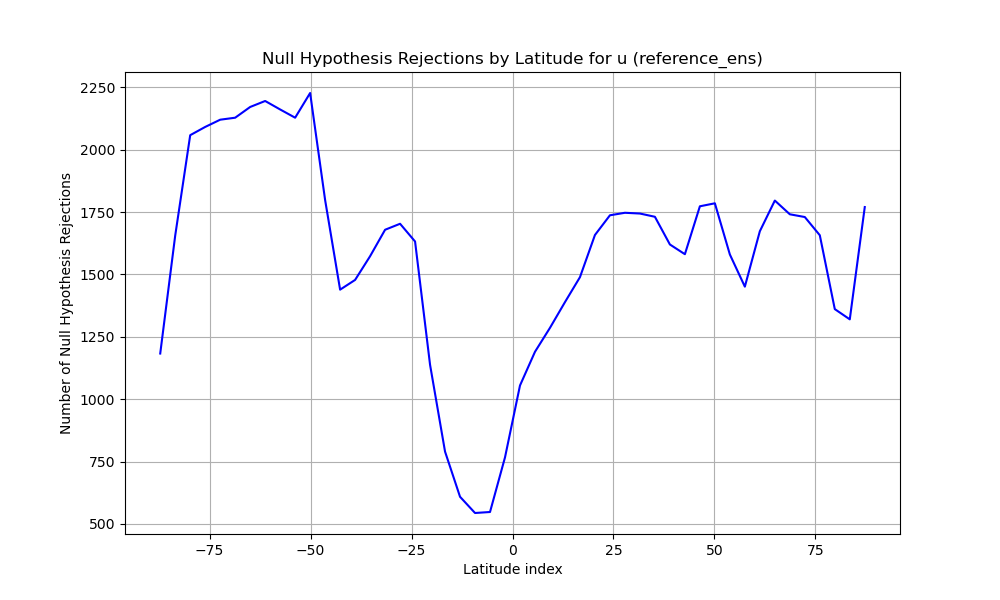
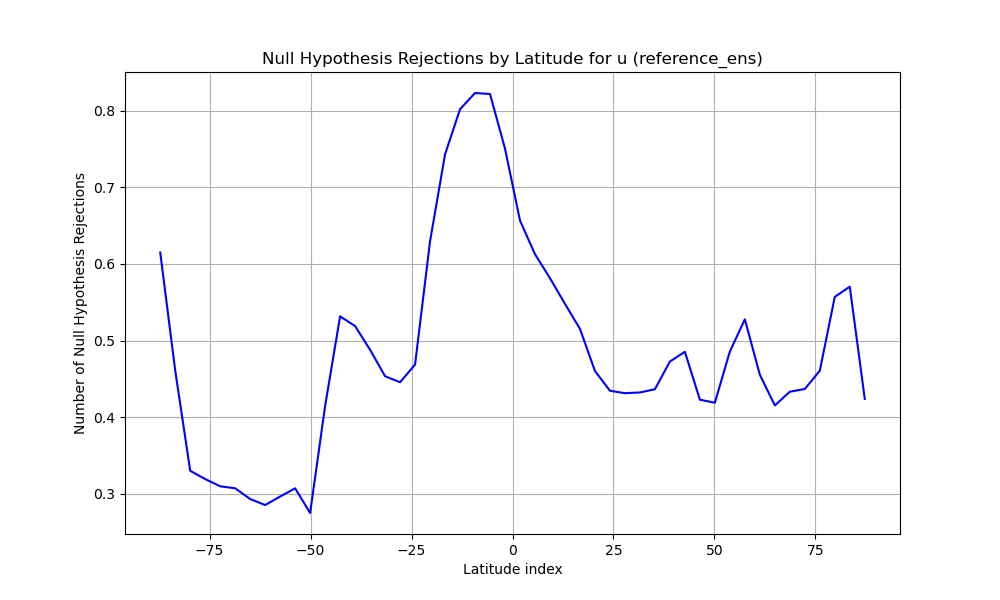
graphing fixes halftime check

diff --git a/examine_normality_test_pvals.py b/examine_normality_test_pvals.py
@@ -9,9 +9,6 @@ from datetime import datetime, timedelta
 import matplotlib.pyplot as plt
 
 
-start_date = datetime(2011,1,1,00)
-
-
 ##open levels from nc file to use for the levels and lats
 def open_file_for_date(ensemble_name, date_str):
     base_SPEEDY = '/fs/ess/PAS2856/SPEEDY_ensemble_data' 
@@ -39,7 +36,7 @@ def correction(p_values_combined):
     print (corrected_pvalues_reshaped.shape)
     
     # our <.05 p values
-    significance = corrected_pvalues_reshaped < .05
+    significance = corrected_pvalues_reshaped > .05
 
     print(significance.shape)
 
@@ -53,6 +50,10 @@ def extract_lat_level_data(ensemble_name, start_date, end_date):
     latitudes_list = []
     levels_list = []
     pvalues_list = []
+
+    ##making end date a datetime so it can be used in <=
+    end_date = datetime.strptime(end_date, "%Y%m%d%H")
+    start_date = datetime.strptime(start_date, "%Y%m%d%H")
     current_date = start_date
 
     ##defining these outside the while loop because the levels and lats are constants 
@@ -60,10 +61,6 @@ def extract_lat_level_data(ensemble_name, start_date, end_date):
     levels, latitudes = open_file_for_date(ensemble_name, date_str)
     levels_list.append(levels)
     latitudes_list.append(latitudes)
-        
-    ##making end date a datetime so it can be used in <=
-    end_date = datetime.strptime(end_date, "%Y%m%d%H")
-
 
     while current_date <= end_date:
         date_str = current_date.strftime("%Y%m%d%H")
@@ -133,17 +130,12 @@ def plot_comparison(reference_rejections, perturbed_rejections):
 ## use sys.argv tp get command line arguments
 ensemble_name = sys.argv[1] 
 end_date = sys.argv[2]  
-variable_name = sys.argv[3]  
-##quick fix from string to date
+variable_name = sys.argv[3]
+start_date = sys.argv[4]
 
 
 # Extract data
 p_values_combined, levels_combined, latitudes_combined = extract_lat_level_data(ensemble_name, start_date, end_date)
-
-
-print (levels_combined.shape)
-
-print(latitudes_combined.shape)
 
 # Perform correction
 significance = correction(p_values_combined)
@@ -153,13 +145,13 @@ time_steps = [start_date + timedelta(days=i) for i in range(len(significance))]
 
 
 ## plot the results (looks very pretty with our functions)
-rejection_latitude = np.sum(significance, axis=(0, 1, 3))
+rejection_latitude = np.mean(significance, axis=(0, 1, 3))
 plot_rejections_by_latitude(latitudes_combined[0], rejection_latitude, ensemble_name, variable_name)
 
-rejection_level = np.sum(significance, axis=(0, 2)) 
-plot_rejections_by_level(levels_combined[0], rejection_level, ensemble_name, variable_name)
+rejection_level = np.mean(significance, axis=(0, 2, 3)) 
+plot_rejections_by_level(np.arange(8), rejection_level, ensemble_name, variable_name)
 
-rejection_time = np.sum(significance, axis=(1, 2)) 
+rejection_time = np.mean(significance, axis=(1, 2)) 
 plot_rejections_by_time(np.arange(len(significance)), rejection_time, ensemble_name, variable_name)
 
 
